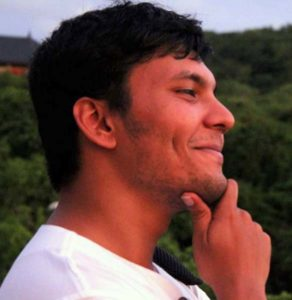
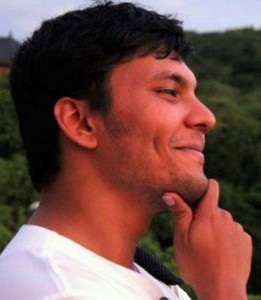
new pub, end postdoc, crop pic

diff --git a/publications.html b/publications.html
@@ -86,7 +86,7 @@
       <div class="row">
         <div class="col-sm-3 col-md-2 sidebar">
           <ul class="nav nav-sidebar">
-	    <img alt="image" src="images/personal-small-2.jpg" class="img-responsive" align="middle" hspace="30">
+	    <img alt="image" src="images/personal-small-2.jpg" class="img-responsive" align="middle" hspace="0">
 	  </ul>
           <ul class="nav nav-sidebar">
             <li><a href="index.html">About Me</a></li>
@@ -186,7 +186,23 @@
 
 		  <h3 id="by_year_2020">2020</h3>
                   
-                  <ul class="publications">                	             
+                  <ul class="publications">     
+<li id="justicia2020">
+<img src="images/preprint.png" height="20px" alt="[Preprint]" title="Preprint">
+<span class="author_name"><a href="https://bishwamittra.github.io/" rel="co-worker" shape="rect">B. Ghosh</a></span>, <span class="author_name" rel="me">D. Basu</span>, and <span class="author_name"><a href="https://www.comp.nus.edu.sg/~meel/" rel="co-worker" shape="rect">K. S. Meel</a></span>,
+<span class="title">Justicia: A Stochastic SAT Approach to Formally Verify Fairness.</span> In <i><a href="https://arxiv.org/abs/2009.06516">arXiv preprint, arXiv:2009.06516</a></i>, <span class="date">2020</span>.
+<span class="note"></span> (<a type="application/pdf" href="pdfs/justicia2020.pdf" title="PDF" shape="rect">PDF</a>) 
+<!-- | <a title="BibTeX" type="text/plain" href="bibliography/ii2020icml.bib" shape="rect">bib</a>) -->                                                
+ </li> 
+
+<li id="enetgraph2019">
+<img src="images/preprint.png" height="20px" alt="[Preprint]" title="Preprint">
+<span class="author_name"><a href="http://www.comp.nus.edu.sg/~liuqing/" rel="co-worker" shape="rect">N. A. Arafat</a></span>, <span class="author_name" rel="me">D. Basu</span>, and <span class="author_name"><a href="http://www.comp.nus.edu.sg/~steph/" rel="co-worker" shape="rect">S. Bressan</a></span>,
+<span class="title">&epsilon;-net Induced Lazy Witness Complex on Graphs</span>. In <i><a href="https://arxiv.org/abs/2009.13071">arXiv preprint, arXiv:2009.13071</acronym></i><span class="date">, 2020</span>.
+<span class="note"></span> (<a type="application/pdf" href="pdfs/atda2019.pdf" title="PDF" shape="rect">PDF</a>) <!-- | <a title="BibTeX" type="text/plain" href="bibliography/atda2019.bib" shape="rect">bib</a>)  -->                                               
+ </li>
+
+           	             
 <li id="grover2020dss">
 
 <img src="images/conf.png" height="20px" alt="[Conference article (peer-reviewed)]" title="Conference article (peer-reviewed)">
@@ -794,7 +810,25 @@
                   
 <h3 id="by_type_preprint">Preprint (Archived Articles)</h3>
                   
+
 <ul class="publications">
+<li id="justicia2020">
+<img src="images/preprint.png" height="20px" alt="[Preprint]" title="Preprint">
+<span class="author_name"><a href="https://bishwamittra.github.io/" rel="co-worker" shape="rect">B. Ghosh</a></span>, <span class="author_name" rel="me">D. Basu</span>, and <span class="author_name"><a href="https://www.comp.nus.edu.sg/~meel/" rel="co-worker" shape="rect">K. S. Meel</a></span>,
+<span class="title">Justicia: A Stochastic SAT Approach to Formally Verify Fairness.</span> In <i><a href="https://arxiv.org/abs/2009.06516">arXiv preprint, arXiv:2009.06516</a></i>, <span class="date">2020</span>.
+<span class="note"></span> (<a type="application/pdf" href="pdfs/justicia2020.pdf" title="PDF" shape="rect">PDF</a>) 
+<!-- | <a title="BibTeX" type="text/plain" href="bibliography/ii2020icml.bib" shape="rect">bib</a>) -->                                                
+ </li> 
+
+
+<li id="enetgraph2019">
+<img src="images/preprint.png" height="20px" alt="[Preprint]" title="Preprint">
+<span class="author_name"><a href="http://www.comp.nus.edu.sg/~liuqing/" rel="co-worker" shape="rect">N. A. Arafat</a></span>, <span class="author_name" rel="me">D. Basu</span>, and <span class="author_name"><a href="http://www.comp.nus.edu.sg/~steph/" rel="co-worker" shape="rect">S. Bressan</a></span>,
+<span class="title">&epsilon;-net Induced Lazy Witness Complex on Graphs</span>. In <i><a href="https://arxiv.org/abs/2009.13071">arXiv preprint, arXiv:2009.13071</acronym></i><span class="date">, 2020</span>.
+<span class="note"></span> (<a type="application/pdf" href="pdfs/atda2019.pdf" title="PDF" shape="rect">PDF</a>) <!-- | <a title="BibTeX" type="text/plain" href="bibliography/atda2019.bib" shape="rect">bib</a>)  -->                                               
+ </li>
+
+
 <li id="hypergraph2020">
 <img src="images/preprint.png" height="20px" alt="[Preprint]" title="Preprint">
 <span class="author_name"><a href="http://www.comp.nus.edu.sg/~steph/" rel="co-worker" shape="rect">N. A. Arafat</a></span>, <span class="author_name" rel="me">D. Basu</span>, <span class="author_name"><a href="http://www.comp.nus.edu.sg/~steph/" rel="co-worker" shape="rect">L. Decreusefond</a></span>, and <span class="author_name"><a href="http://www.comp.nus.edu.sg/~steph/" rel="co-worker" shape="rect">S. Bressan</a></span>,

diff --git a/index.html b/index.html
@@ -74,7 +74,7 @@
       <div class="row">
         <div class="col-sm-3 col-md-2 sidebar">
           <ul class="nav nav-sidebar">
-	    <img alt="image" src="images/personal-small-2.jpg" class="img-responsive" align="middle" hspace="30">
+	    <img alt="image" src="images/personal-small-2.jpg" class="img-responsive" align="middle" hspace="0">
 	  </ul>
           <ul class="nav nav-sidebar">
             <li><a href="index.html">About Me</a></li>
@@ -176,7 +176,7 @@
                                         <li>
                                             <div class="dates">
                                                 <span>Mar 2019</span>
-                                                <span>Present</span>
+                                                <span>Oct 2020</span>
                                             </div>
                                             <div class="content">
                                                 <h4>Postdoctoral Research Fellow</h4>

diff --git a/awards.html b/awards.html
@@ -75,7 +75,7 @@
       <div class="row">
         <div class="col-sm-3 col-md-2 sidebar">
           <ul class="nav nav-sidebar">
-	    <img alt="image" src="images/personal-small-2.jpg" class="img-responsive" align="middle" hspace="30">
+	    <img alt="image" src="images/personal-small-2.jpg" class="img-responsive" align="middle" hspace="0">
 	  </ul>
           <ul class="nav nav-sidebar">
             <li><a href="index.html">About Me</a></li>

diff --git a/contact.html b/contact.html
@@ -75,7 +75,7 @@
       <div class="row">
         <div class="col-sm-3 col-md-2 sidebar">
           <ul class="nav nav-sidebar">
-	    <img alt="image" src="images/personal-small-2.jpg" class="img-responsive" align="middle" hspace="30">
+	    <img alt="image" src="images/personal-small-2.jpg" class="img-responsive" align="middle" hspace="0">
 	  </ul>
           <ul class="nav nav-sidebar">
             <li><a href="index.html">About Me</a></li>

diff --git a/miscellaneous.html b/miscellaneous.html
@@ -75,7 +75,7 @@
       <div class="row">
         <div class="col-sm-3 col-md-2 sidebar">
           <ul class="nav nav-sidebar">
-	    <img alt="image" src="images/personal-small-2.jpg" class="img-responsive" align="middle" hspace="30">
+	    <img alt="image" src="images/personal-small-2.jpg" class="img-responsive" align="middle" hspace="0">
 	  </ul>
           <ul class="nav nav-sidebar">
             <li><a href="index.html">About Me</a></li>

diff --git a/research.html b/research.html
@@ -75,7 +75,7 @@
       <div class="row">
         <div class="col-sm-3 col-md-2 sidebar">
           <ul class="nav nav-sidebar">
-	    <img alt="image" src="images/personal-small-2.jpg" class="img-responsive" align="middle" hspace="30">
+	    <img alt="image" src="images/personal-small-2.jpg" class="img-responsive" align="middle" hspace="0">
 	  </ul>
           <ul class="nav nav-sidebar">
             <li><a href="index.html">About Me</a></li>

diff --git a/talks.html b/talks.html
@@ -75,7 +75,7 @@
       <div class="row">
         <div class="col-sm-3 col-md-2 sidebar">
           <ul class="nav nav-sidebar">
-	    <img alt="image" src="images/personal-small-2.jpg" class="img-responsive" align="middle" hspace="30">
+	    <img alt="image" src="images/personal-small-2.jpg" class="img-responsive" align="middle" hspace="0">
 	  </ul>
           <ul class="nav nav-sidebar">
             <li><a href="index.html">About Me</a></li>

diff --git a/teaching.html b/teaching.html
@@ -75,7 +75,7 @@
       <div class="row">
         <div class="col-sm-3 col-md-2 sidebar">
           <ul class="nav nav-sidebar">
-	    <img alt="image" src="images/personal-small-2.jpg" class="img-responsive" align="middle" hspace="30">
+	    <img alt="image" src="images/personal-small-2.jpg" class="img-responsive" align="middle" hspace="0">
 	  </ul>
           <ul class="nav nav-sidebar">
             <li><a href="index.html">About Me</a></li>
